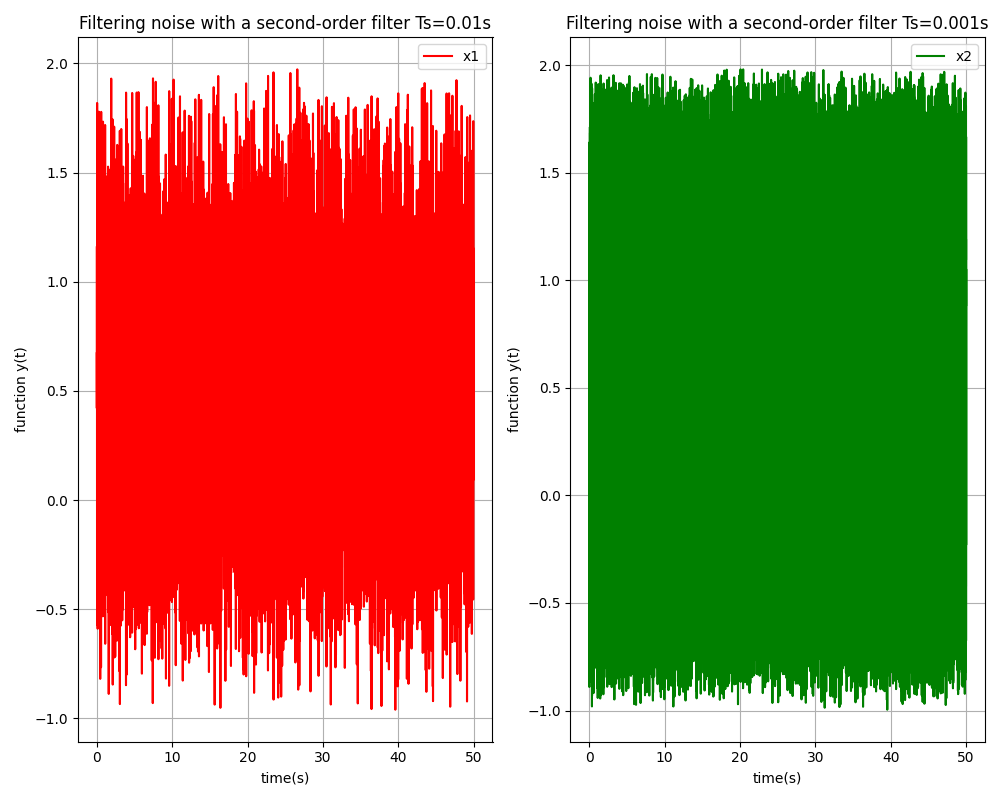
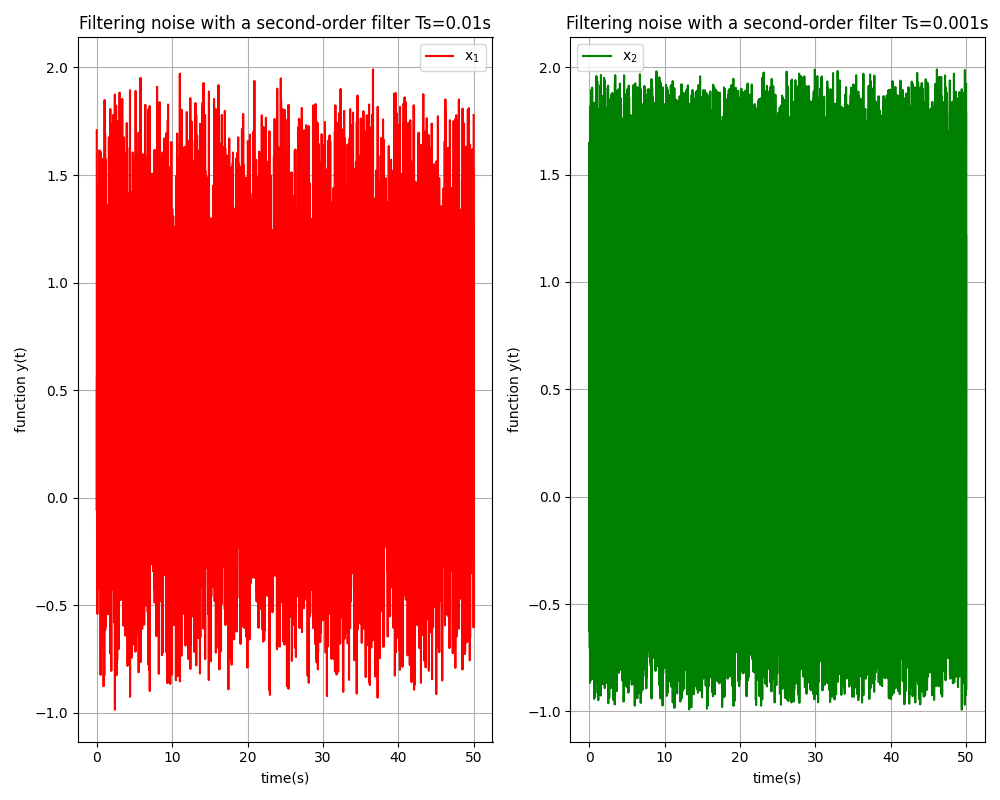
feat: add task2

diff --git a/lab1/task2.py b/lab1/task2.py
@@ -1,0 +1,72 @@
+import numpy as np
+import matplotlib.pyplot as plt
+from scipy.signal import lfilter, sawtooth
+
+
+def noiseFilter(noise=False, MAF=False, moreM=False, differentS=False):
+    R = 50
+    m = np.arange(0, R)
+    s = 2 * m * (0.9 ** m)
+    d = np.random.rand(len(m)) - 0.5
+    x = s + d
+
+    # Plotting the filtered signal with different M values 2.6
+    if noise and MAF:
+        if moreM:
+            M = [3, 5, 10]
+            for i in M:
+                b = np.ones(i) / i
+                y = lfilter(b, 1, x)
+                plt.plot(m, y, label=f'M = {i}')
+
+            plt.title('The filtered signal with different M values')
+            save = './plots/2.6.png'
+        # Plotting The original signal, the noisy signal and the filtered signal 2.5
+        else:    
+            M = 3
+            b = np.ones(M) / M
+            y = lfilter(b, 1, x)
+
+            plt.plot(m, s, 'r-', label='Original s$_1$') 
+            plt.plot(m, x, 'b--', label='Noisy x')    
+            plt.plot(m, y, 'g-.', label='Filtered y')   
+            plt.title('Original, Noisy, and Filtered Signals')
+            save = './plots/2.5.png' 
+    # Plotting the original signal with and without noise 2.1-2.4        
+    elif noise and not MAF:
+        plt.plot(m, s, label='s$_1$')
+        plt.plot(m, x, label='s$_1$ + d')
+        plt.title('The original signal without and with noise')
+        save = './plots/2.1-2.4.png'
+    # Plotting the original, noisy, and filtered signals 2.7    
+    elif differentS:
+        R = 1
+        m = np.arange(0, R, 0.001)
+        s = 2 * sawtooth(3 * np.pi * m + np.pi/6)
+        d = np.random.rand(len(m)) - 0.5
+        x = s + d
+        if moreM:
+            M = [20, 50, 100]
+            for i in M:
+                b = np.ones(i) / i
+                y = lfilter(b, 1, x)
+                plt.plot(m, y, label=f'M = {i}')
+
+            plt.title('The filtered signal with different M values')
+            save = './plots/2.8.png'
+        else:    
+            M = 20
+            b = np.ones(M) / M
+            y = lfilter(b, 1, x)
+
+            plt.plot(m, s, 'r-', label='Original s$_2$') 
+            plt.plot(m, x, 'b--', label='Noisy x')    
+            plt.plot(m, y, 'g-.', label='Filtered y') 
+            plt.title('Original, Noisy, and Filtered Signals')
+            save = './plots/2.7.png' 
+    plt.grid(True)
+    plt.xlabel('Time (n)')
+    plt.ylabel('Amplitude')
+    plt.legend()
+    plt.savefig(f'{save}')
+    plt.show()

diff --git a/lab1/main.py b/lab1/main.py
@@ -1,5 +1,6 @@
 import matplotlib.pyplot as plt
-from step1 import randomNoise, digitalFilter
+from task1 import randomNoise, digitalFilter
+from task2 import noiseFilter
 
 
 Ts1 = 0.01
@@ -28,3 +29,18 @@ digitalFilter(Ts2)
 plt.tight_layout()
 plt.savefig('./plots/1.5-1.6.png')
 plt.show()
+
+# Plotting the original signal without and with noise 2.1-2.4
+noiseFilter(True)
+
+# Plotting the original signal, the noisy signal and the filtered signal 2.5
+noiseFilter(True, True)
+
+# Plotting the filtered signal for more M 2.6
+noiseFilter(True, True, True)
+
+# Plotting the original, noisy, and filtered signals for s2 2.7
+noiseFilter(False, False, False, True)
+
+# Plotting the filtered signal s2 for more M 2.8
+noiseFilter(False, False, True, True)

diff --git a/lab1/task1.py b/lab1/task1.py
@@ -4,10 +4,10 @@ import matplotlib.pyplot as plt
 
 def randomNoise(Ts=0.01, plot=True):
     if Ts == 0.01:
-        xLabel = 'x1'
+        xLabel = 'x$_1$'
         color = 'r'
     elif Ts == 0.001:
-        xLabel = 'x2'
+        xLabel = 'x$_2$'
         color = 'g'  
     if Ts == 0.01 and not plot:   
         t = np.arange(1, 5, Ts) 
@@ -44,10 +44,10 @@ def digitalFilter(Ts=0.01):
     y1 = np.convolve(x, b, mode='same') / a[0] - np.convolve(x, a[1:], mode='same') / a[0]
 
     if Ts == 0.01:
-        xLabel = 'x1'
+        xLabel = 'x$_1$'
         color = 'r'
     elif Ts == 0.001:
-        xLabel = 'x2'
+        xLabel = 'x$_2$'
         color = 'g'
 
     plt.plot(t, y1, label=xLabel, color=color)
